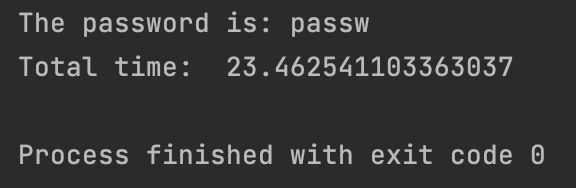
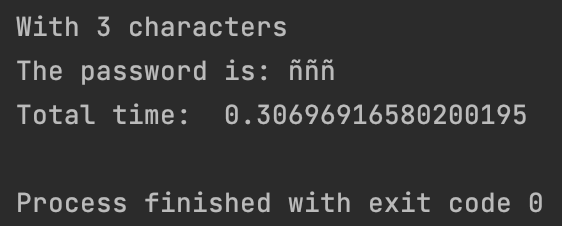
Add files via upload

diff --git a/password.py b/password.py
@@ -1,0 +1,234 @@
+import hashlib
+import multiprocessing
+import time
+
+
+class Password:
+    """
+    Class password to obtain the posible password
+    """
+    def __init__(self, hash, letters=[["a", "e"], ["f", "j"], ["l", "p"], ["q", "u"],
+                                      ["v", "y"], ["z", "2"], ["3", "6"], ["7", "9"]], fin_pswd=""
+                            ,char="abcdefghijklmnopqrstuvwxyz123456789"):
+        self.hash = hash
+        self.letters = letters
+        self.fin_pswd = fin_pswd
+        self.char = char
+
+    # The different implementations to solve the password
+
+    def passwd3(self, lett):
+        """
+        Solve the password with 3 characters
+        42875 Possibilities
+        :param lett: List with the letter to start
+        """
+        # Return Value
+        value = 0
+        # Boolean value if we have found it or not
+        found = False
+        first_let = lett[0]
+        end_let = lett[1]
+        # First letter string
+        fr_letter = self.char[self.char.find(first_let):self.char.find(end_let) + 1]
+        ind_1 = 0
+        while not found and ind_1 < len(fr_letter):
+            lt1 = fr_letter[ind_1]
+            ind_1 += 1
+            ind_2 = 0
+            while not found and ind_2 < len(self.char):
+                lt2 = self.char[ind_2]
+                ind_3 = 0
+                ind_2 += 1
+                while not found and ind_3 < len(self.char):
+                    lt3 = self.char[ind_3]
+                    ind_3 += 1
+                    psw = lt1 + lt2 + lt3 + self.fin_pswd
+                    hash_aux = hashlib.sha3_256(psw.encode())
+                    has_com = hash_aux.hexdigest()
+                    if has_com == self.hash:
+                        found = True
+                        value = psw
+        if value != 0:
+            print("The password is:", value)
+        return value
+
+    def passwd4(self, lett):
+        """
+        Solve the password with 4 characters
+        1500625 Possibilities
+        :param lett: List with the letter to start
+        """
+        # Return Value
+        value = 0
+        # Boolean value if we have found it or not
+        found = False
+        first_let = lett[0]
+        end_let = lett[1]
+        # First letter string
+        fr_letter = self.char[self.char.find(first_let):self.char.find(end_let) + 1]
+        ind_1 = 0
+        while not found and ind_1 < len(fr_letter):
+            lt1 = fr_letter[ind_1]
+            ind_1 += 1
+            ind_2 = 0
+            while not found and ind_2 < len(self.char):
+                lt2 = self.char[ind_2]
+                ind_3 = 0
+                ind_2 += 1
+                while not found and ind_3 < len(self.char):
+                    lt3 = self.char[ind_3]
+                    ind_3 += 1
+                    ind_4 = 0
+                    while not found and ind_4 < len(self.char):
+                        lt4 = self.char[ind_4]
+                        ind_4 += 1
+                        psw = lt1 + lt2 + lt3 + lt4 + self.fin_pswd
+                        hash_aux = hashlib.sha3_256(psw.encode())
+                        has_com = hash_aux.hexdigest()
+                        if has_com == self.hash:
+                            found = True
+                            value = psw
+        if value != 0:
+            print("The password is:", value)
+        return value
+
+    def passwd5(self, lett):
+        """
+        Solve the password with 5 characters
+        52521875 Possibilities
+        :param lett: List with the letter to start
+        """
+        # Return Value
+        value = 0
+        # Boolean value if we have found it or not
+        found = False
+        first_let = lett[0]
+        end_let = lett[1]
+        # First letter string
+        fr_letter = self.char[self.char.find(first_let):self.char.find(end_let) + 1]
+        ind_1 = 0
+        while not found and ind_1 < len(fr_letter):
+            lt1 = fr_letter[ind_1]
+            ind_1 += 1
+            ind_2 = 0
+            while not found and ind_2 < len(self.char):
+                lt2 = self.char[ind_2]
+                ind_3 = 0
+                ind_2 += 1
+                while not found and ind_3 < len(self.char):
+                    lt3 = self.char[ind_3]
+                    ind_4 = 0
+                    ind_3 += 1
+                    while not found and ind_4 < len(self.char):
+                        lt4 = self.char[ind_4]
+                        ind_4 += 1
+                        ind_5 = 0
+                        while not found and ind_5 < len(self.char):
+                            lt5 = self.char[ind_5]
+                            ind_5 += 1
+                            psw = lt1 + lt2 + lt3 + lt4 + lt5 + self.fin_pswd
+                            hash_aux = hashlib.sha3_256(psw.encode())
+                            has_com = hash_aux.hexdigest()
+                            if has_com == self.hash:
+                                found = True
+                                value = psw
+        if value != 0:
+            print("The password is:", value)
+        return value
+
+    def passwd6(self, lett):
+        """
+        Solve the password with 6 characters
+        1838265625 Possibilities
+        :param lett: List with the letter to start
+        """
+        # Return Value
+        value = 0
+        # Boolean value if we have found it or not
+        found = False
+        first_let = lett[0]
+        end_let = lett[1]
+        # First letter string
+        fr_letter = self.char[self.char.find(first_let):self.char.find(end_let) + 1]
+        ind_1 = 0
+        while not found and ind_1 < len(fr_letter):
+            lt1 = fr_letter[ind_1]
+            ind_1 += 1
+            ind_2 = 0
+            while not found and ind_2 < len(self.char):
+                lt2 = self.char[ind_2]
+                ind_3 = 0
+                ind_2 += 1
+                while not found and ind_3 < len(self.char):
+                    lt3 = self.char[ind_3]
+                    ind_4 = 0
+                    ind_3 += 1
+                    while not found and ind_4 < len(self.char):
+                        lt4 = self.char[ind_4]
+                        ind_4 += 1
+                        ind_5 = 0
+                        while not found and ind_5 < len(self.char):
+                            lt5 = self.char[ind_5]
+                            ind_5 += 1
+                            ind_6 = 0
+                            while not found and ind_6 < len(self.char):
+                                lt6 = self.char[ind_6]
+                                ind_6 += 1
+                                psw = lt1 + lt2 + lt3 + lt4 + lt5 + lt6 + self.fin_pswd
+                                hash_aux = hashlib.sha3_256(psw.encode())
+                                has_com = hash_aux.hexdigest()
+                                if has_com == self.hash:
+                                    found = True
+                                    value = psw
+        if value != 0:
+            print("The password is:", value)
+        return value
+
+    def solve(self, three=True, four=True, five=True, six=True):
+        """
+        Try to solve the password looking to all the possibilities between 2 and 6
+        :param tree: If proves with 3 characters
+        :param four: If proves with 3 characters
+        :param five: If proves with 3 characters
+        :param six: If proves with 3 characters
+        :return:
+        """
+        n_p = len(self.letters)
+        exit = False
+        if three:
+            t1 = time.time()
+            print("With 3 characters")
+            pool = multiprocessing.Pool(n_p)
+            result = pool.map(self.passwd3, self.letters)
+            t2 = time.time()
+            print("Total time: ", t2 - t1)
+            if any(result):
+                exit = True
+        if four and not exit:
+            t1 = time.time()
+            print("With 4 characters")
+            pool = multiprocessing.Pool(n_p)
+            result = pool.map(self.passwd4, self.letters)
+            t2 = time.time()
+            print("Total time: ", t2 - t1)
+            if any(result):
+                exit = True
+        if five and not exit:
+            t1 = time.time()
+            print("With 5 characters")
+            pool = multiprocessing.Pool(n_p)
+            result = pool.map(self.passwd5, self.letters)
+            t2 = time.time()
+            print("Total time: ", t2 - t1)
+            if any(result):
+                exit = True
+        if six and not exit:
+            t1 = time.time()
+            print("With 6 characters")
+            pool = multiprocessing.Pool(n_p)
+            pool.map(self.passwd6, self.letters)
+            t2 = time.time()
+            print("Total time: ", t2 - t1)
+        return
+

diff --git a/test.py b/test.py
@@ -1,0 +1,32 @@
+# Libraries
+import hashlib
+import multiprocessing
+import time
+from password import Password
+
+# GLOBAL VARIABLES
+# Hash
+hash_c = hashlib.sha3_256("john4".encode())
+HASH = hash_c.hexdigest()
+# Possibility of adding if you know the end of the password
+FIN_PSW = ""
+# String with alphanumeric characters
+CHAR = "abcdefghijklmnopqrstuvwxyz123456789"
+# CHAR2 = "abcdefghijklmnopqrstuvwxyz123456789ABCDEFGHIJKLMNOPQRTSUVWXYZ"
+# The distribution of letters for the processors
+LETTERS = [["a", "e"], ["f", "j"], ["l", "p"], ["q", "u"],
+           ["v", "y"], ["z", "2"], ["3", "6"], ["7", "/"]]
+
+# LETTERS2 = [["a", "j"], ["k", "p"], ["p", "v"], ["w", "3"],
+#           ["4", "B"], ["C", "I"], ["J", "O"], ["P", "Z"]]
+
+
+def main():
+    passw = Password(hash=HASH, char=CHAR, letters=LETTERS)
+    # Without looking for passwords that have more than 5 letters
+    passw.solve(six=False)
+
+
+if __name__ == "__main__":
+    main()
+

diff --git a/README.md b/README.md
@@ -1,18 +1,33 @@
 <h2>Introduction</h2>
-This python program can found a password with 5 ascii letters in less than 20 seconds by using parallel programing.
+Keeping our passwords secret is one of the most important things on the Internet today. For this
+it is important not to have weak passwords, since today's computers are capable of breaking them easily by brute force*. The code I have created is a small example of how up to 5 character passwords can be discovered in a matter of seconds. 
 Only needs the sha256 hash value of the password, and using brute force is capable to found it.
 
-There are **52.521.875** , not a large number for the actual computers.
-This is only an example of how fast can extract weak passwords 
+brute force: Trying to identify the password by loop all the possible combinations
+
+<h2>Project</h2>
+To break the password only with the hash I have implement a class Password
+that needs the hash to break and tries all the possible combinations
+using parallel programing. 
+It is prepared to search only for characters in lowercase ascii, 
+but as arguments you can add characters to search for, or remove if you could discard some, 
+but this should be taken into account in the variable "letters" that makes the distribution 
+between the processors.
+
+There are in total more than **52.000.000** million possibilities with 5 
+letters taking into account the combinations with 3 and 4 letters and the program is capable of solving it in less than 30 seconds.
+You can add too a final characters in the solver if you know it.
 
 <h2>Libraries</h2>
 I have use hashlib for extract the hash values, multiprocessing for parallel programing and time to obtain the total time of the program.
 
-<h2>Results</h2>
+<h2>Examples of bad passwords</h2>
 After differents examples this are the results
 
 ![Example 1](example1.jpg)
 
+
 ![Example 2](example2.jpg)
+
 
 ![Example 3](example3.jpg)
